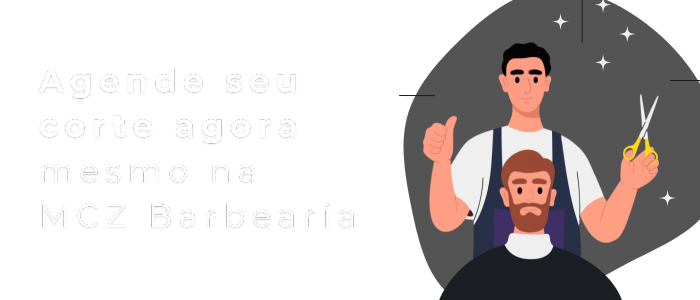
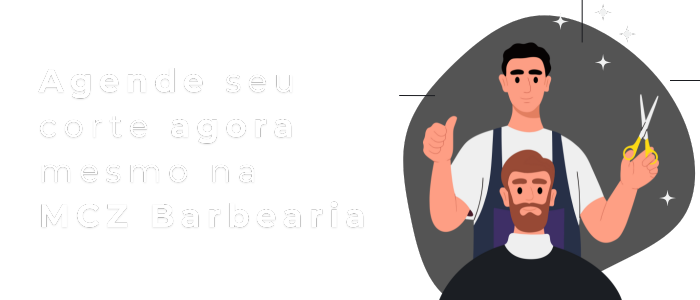
style: responsive settings

diff --git a/app/page.tsx b/app/page.tsx
@@ -36,36 +36,41 @@ const Home = async () => {
   return (
     <div>
       <Header />
-      <div className="p-5">
-        <h2 className="text-xl font-bold">
-          Olá,{" "}
-          {session?.user
-            ? session.user.name?.split(" ")[0]
-            : "seja bem-vindo(a)"}
-          !
-        </h2>
-        {session?.user && (
-          <p>
-            <span className="capitalize">
-              {format(new Date(), "EEEE, dd", { locale: ptBR })}
-            </span>{" "}
-            de{" "}
-            <span className="capitalize">
-              {format(new Date(), "MMMM", { locale: ptBR })}
-            </span>
-            .
-          </p>
-        )}
-        <div className="relative mt-6 w-full lg:h-auto">
-          <Image
-            alt="Agende nos melhores com FSW Barber"
-            src="/banner-01.png"
-            width={100}
-            height={150}
-            layout="responsive"
-            className="rounded border border-solid border-zinc-800 object-cover"
-          />
+      <div className="mb-8 p-5">
+        <div className="md:flex md:items-center md:justify-around">
+          <div className="mb-3">
+            <h2 className="text-xl font-bold lg:text-2xl">
+              Olá,{" "}
+              {session?.user
+                ? session.user.name?.split(" ")[0]
+                : "seja bem-vindo(a)"}
+              !
+            </h2>
+            {session?.user && (
+              <p className="lg:text-xl">
+                <span className="capitalize">
+                  {format(new Date(), "EEEE, dd", { locale: ptBR })}
+                </span>{" "}
+                de{" "}
+                <span className="capitalize">
+                  {format(new Date(), "MMMM", { locale: ptBR })}
+                </span>
+                .
+              </p>
+            )}
+          </div>
+          <div className="relative">
+            <Image
+              alt="Agende nos melhores com FSW Barber"
+              src="/banner-01.png"
+              width={100}
+              height={150}
+              layout="responsive"
+              className="rounded border border-solid border-zinc-800 object-cover md:border-none"
+            />
+          </div>
         </div>
+
         {session?.user && booking.length > 0 ? (
           <div>
             <h2 className="mb-3 mt-6 text-xs font-bold uppercase text-gray-400">

diff --git a/app/bookings/page.tsx b/app/bookings/page.tsx
@@ -54,7 +54,7 @@ const Bookings = async () => {
     <>
       <Header />
       {confirmedBookings.length > 0 || finishedBookings.length > 0 ? (
-        <>
+        <div className="mb-8">
           <h1 className="mb-3 p-5 text-xl font-bold">Agendamentos</h1>
           <div className="px-5">
             {confirmedBookings.length > 0 && (
@@ -76,7 +76,7 @@ const Bookings = async () => {
               <BookingItem key={booking.id} booking={booking} />
             ))}
           </div>
-        </>
+        </div>
       ) : (
         <div className="mt-[50%] flex justify-center">
           <p className="text-gray-400">Nenhum agendamento encontrado.</p>
